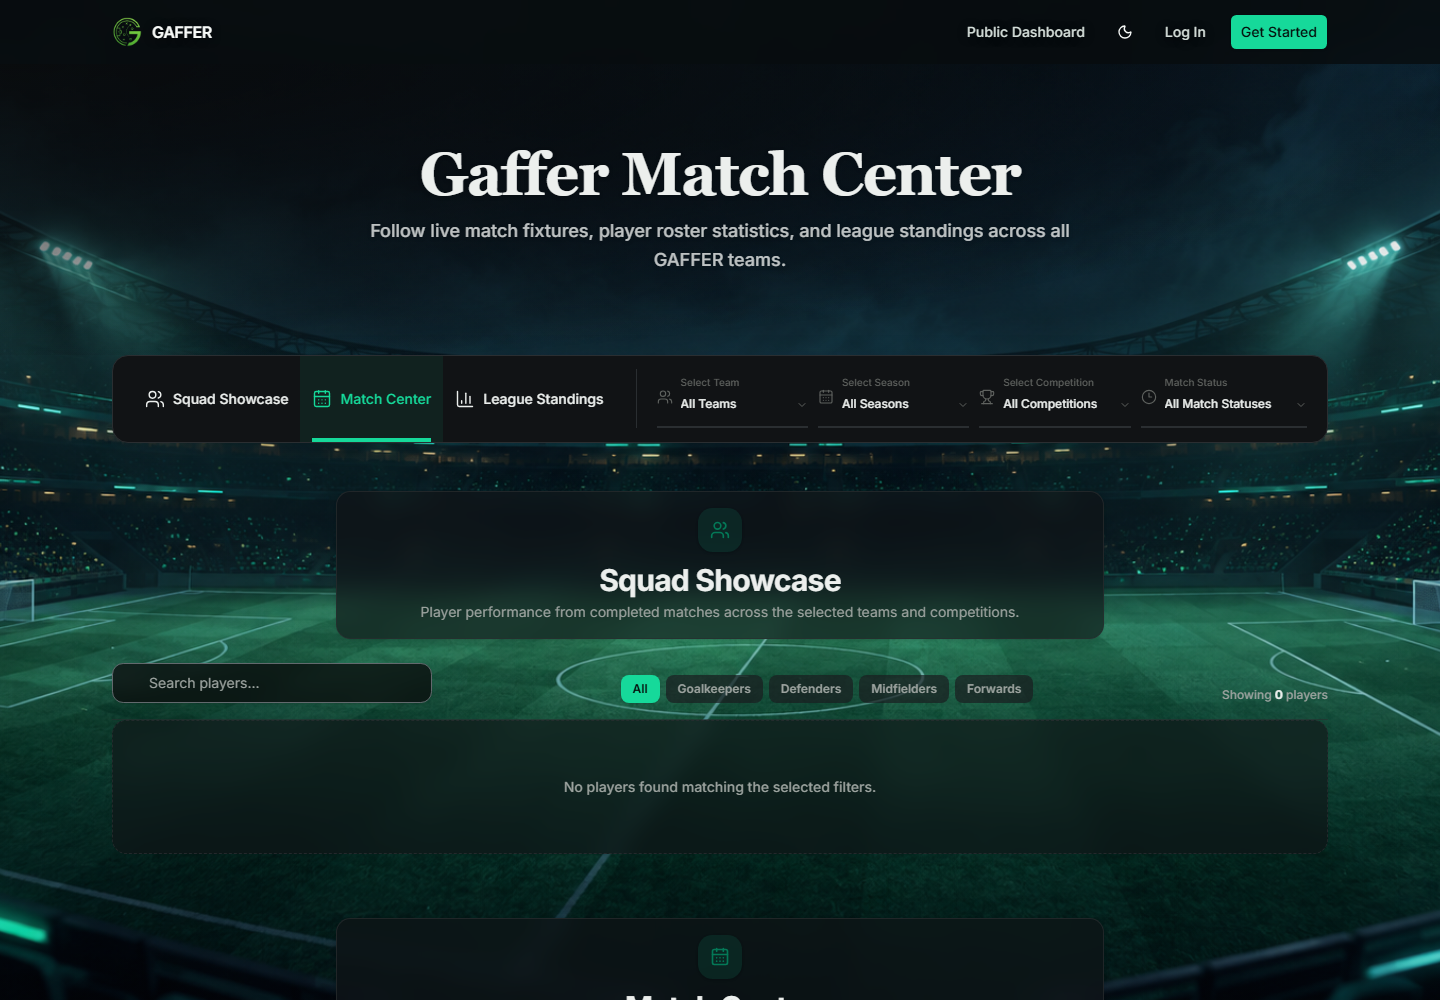
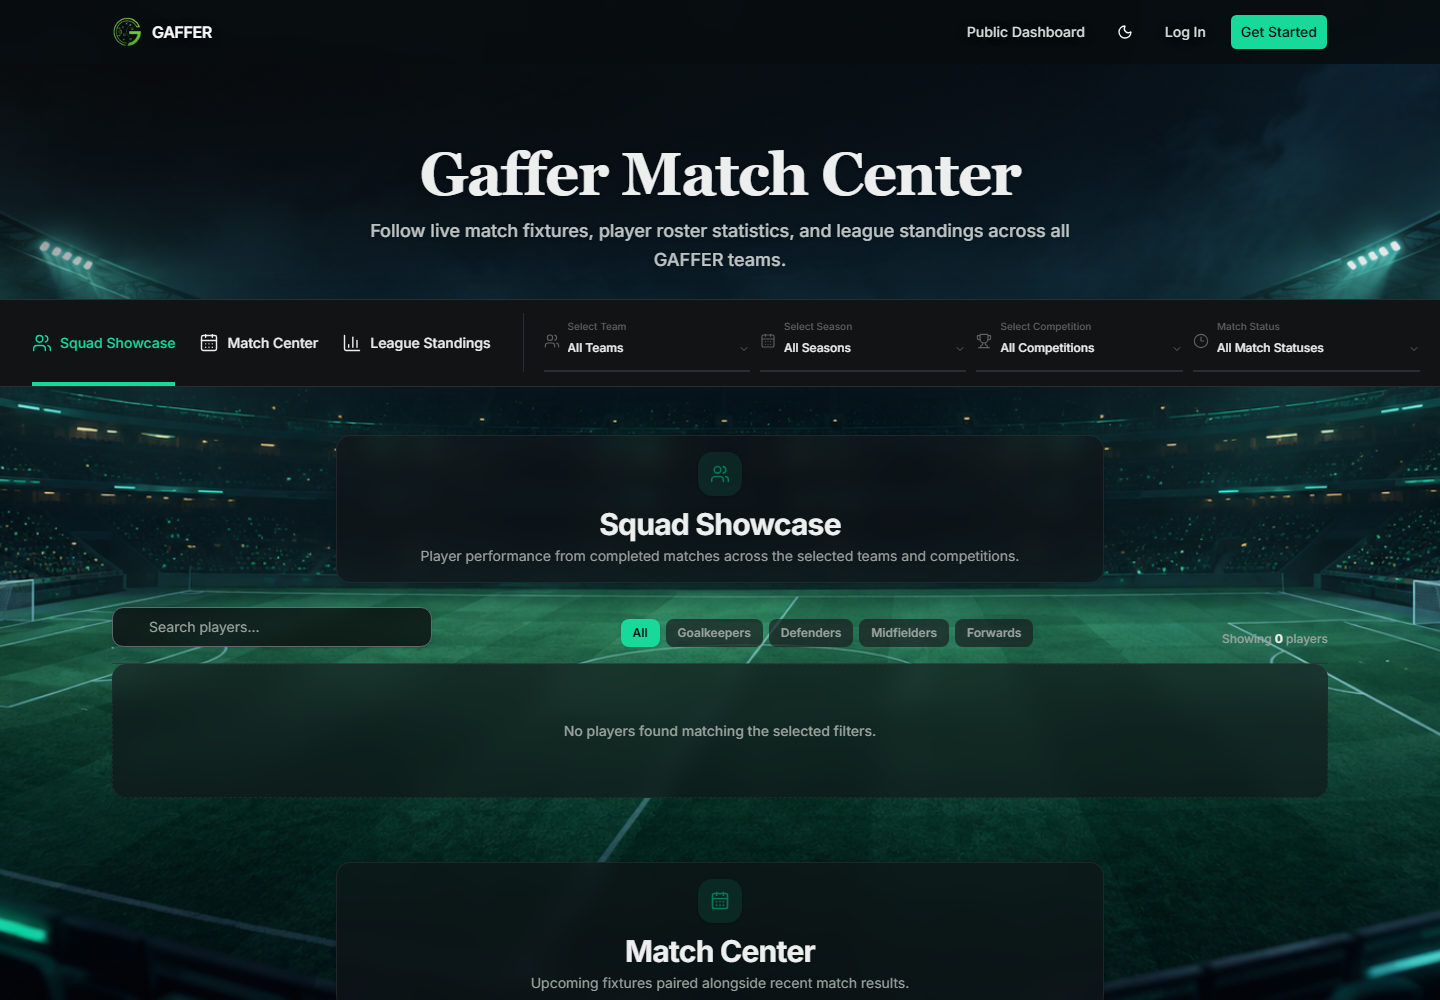
fix(padding): make filter bar span entire screen and close the gap
Co-Authored by: Codex [5.6 Sol]

diff --git a/frontend/src/pages/PublicDashboard.tsx b/frontend/src/pages/PublicDashboard.tsx
@@ -246,7 +246,7 @@ export default function PublicDashboard() {
         }
       >
         {/* ─── Modern Hero Header ─────────────────────────────────────────── */}
-        <section className="relative overflow-hidden py-12 sm:py-16 lg:py-20">
+        <section className="relative overflow-hidden pb-4 pt-12 sm:pb-6 sm:pt-16 lg:pt-20">
           <div
             className="pointer-events-none absolute inset-0 bg-[radial-gradient(ellipse_at_top_left,color-mix(in_srgb,var(--card)_82%,transparent)_0%,color-mix(in_srgb,var(--card)_45%,transparent)_38%,transparent_72%)] dark:bg-[radial-gradient(ellipse_at_top_left,color-mix(in_srgb,var(--background)_88%,transparent)_0%,color-mix(in_srgb,var(--background)_52%,transparent)_40%,transparent_74%)]"
             aria-hidden="true"
@@ -270,7 +270,7 @@ export default function PublicDashboard() {
         {/* ─── Floating Sticky Filter Bar ───────────────────────────────── */}
         <div
           ref={filterBarRef}
-          className="sticky top-16 z-40 mx-auto max-w-7xl px-4 sm:px-6 lg:px-8"
+          className="sticky top-16 z-40 w-full"
         >
           <div className="public-dashboard-toolbar">
             <PublicDashboardSectionNav sections={dashboardSections} />

diff --git a/frontend/src/index.css b/frontend/src/index.css
@@ -780,7 +780,8 @@ select:-webkit-autofill {
   overflow-x: auto;
   overscroll-behavior-x: contain;
   border: 1px solid var(--border);
-  border-radius: 16px;
+  border-radius: 0;
+  border-inline: 0;
   background: var(--card);
   padding: 0 20px;
   box-shadow: 0 12px 36px rgb(15 23 42 / 12%);
